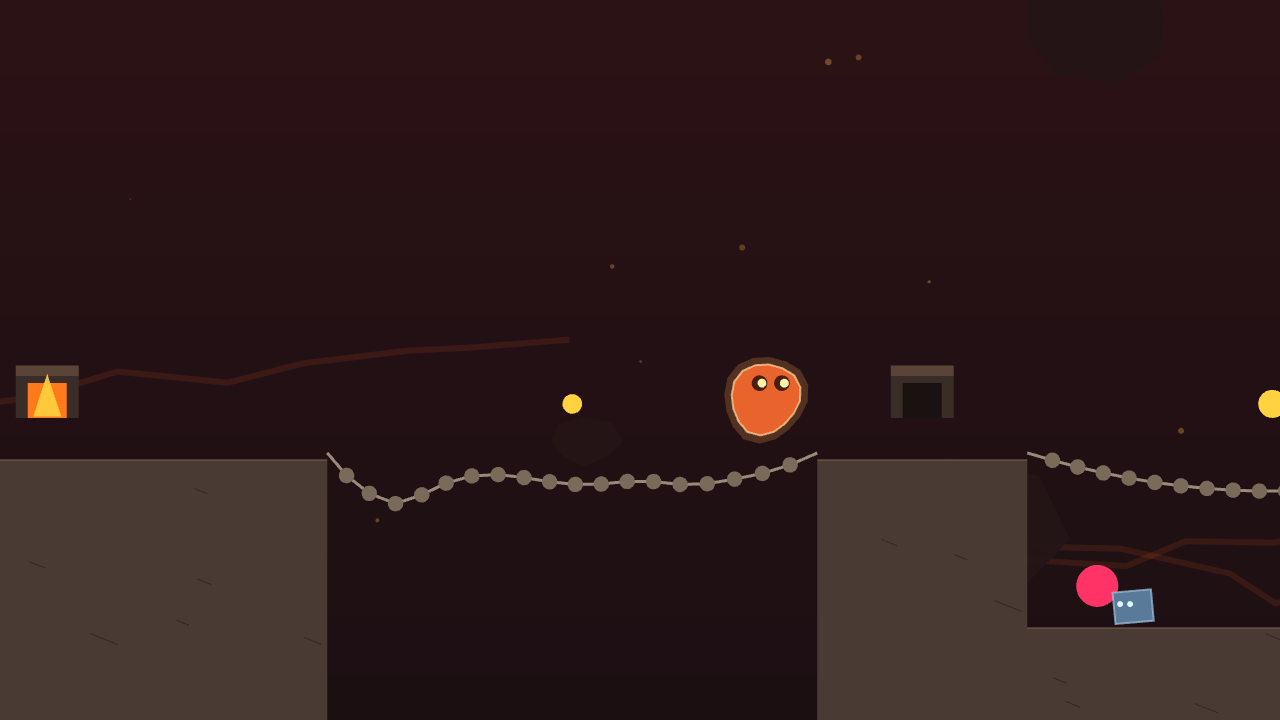
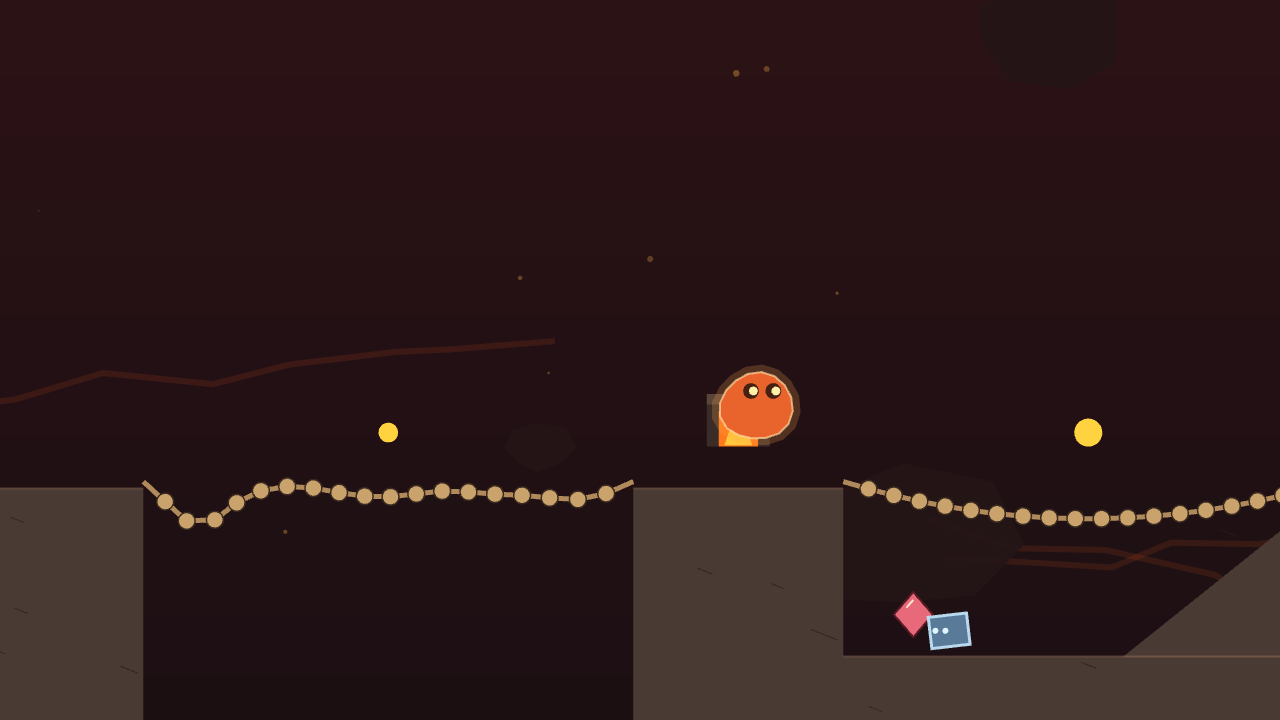
Проба: читаемость по ревью критика (сердца, выход, кнопки со значками, стик, цепи, враги, экран конца, меню)

diff --git a/src/main.ts b/src/main.ts
@@ -5,7 +5,7 @@ import { MIR } from './game/config/telo';
 import { Igra } from './game/igra';
 import { PUSTOE, Telo } from './game/telo';
 import { Prizrak, Zapis } from './game/zapis';
-import { Vvod } from './input/vvod';
+import { type Knopka, Vvod } from './input/vvod';
 import type { Uroven } from './level/format';
 import { porogOchkov, sleduyushchiy, UROVNI, urovenOtkryt, urovenPoId } from './level/spisok';
 import { type ZagruzhennyyUroven, zagruzitUroven } from './level/zagruzka';
@@ -116,7 +116,7 @@ function pokazatKonec(): void {
     const rekord = bylo === 0 || igra.takty <= bylo ? `  ${t(yazyk, 'rekord')}` : '';
     ekranTekst.textContent = `${t(yazyk, 'vremya')} ${vremya}${rekord}  ${t(yazyk, 'padenie')} ${igra.dlinneysheePadenie.toFixed(1)}`;
   } else {
-    ekranTekst.textContent = `${t(yazyk, 'vremya')} ${vremya}  ${t(yazyk, 'ochki')} ${igra.ochki}  ${t(yazyk, 'serdca')} ${igra.serdca}/${serdca.length}  ${t(yazyk, 'smerti')} ${igra.smerti}`;
+    ekranTekst.innerHTML = `${t(yazyk, 'vremya')} ${vremya} &nbsp;•&nbsp; ${t(yazyk, 'ochki')} ${igra.ochki}<br>${t(yazyk, 'serdca')} ${igra.serdca}/${serdca.length} &nbsp;•&nbsp; ${t(yazyk, 'smerti')} ${igra.smerti}`;
   }
   // реклама между уровнями: только здесь, симуляция стоит, звук глушится на время ролика
   zvuk.ustanovitGromkost(0);
@@ -160,7 +160,7 @@ function pokazatMenyu(): void {
       u.rezhim === 'zherlo' && pr?.luchsheeVremya
         ? ` ${Math.floor(pr.luchsheeVremya / 3600)}:${String(Math.floor((pr.luchsheeVremya / 60) % 60)).padStart(2, '0')}`
         : '';
-    el.innerHTML = `<span>${u.id} ${nazvanieUrovnya(yazyk, u.id, u.nazvanie)}${vremya}</span><span class="z">${otkryt ? '★'.repeat(z) + '☆'.repeat(3 - z) : `🔒 ${u.rezhim === 'zherlo' ? `${u.zvyozdDlyaOtkrytiya ?? 12}★` : ''}`}</span>`;
+    el.innerHTML = `<span>${u.id} ${nazvanieUrovnya(yazyk, u.id, u.nazvanie)}${vremya}</span><span class="z">${otkryt ? '★'.repeat(z) + '☆'.repeat(3 - z) : `🔒 ${u.rezhim === 'zherlo' ? `${t(yazyk, 'nuzhno')} ${u.zvyozdDlyaOtkrytiya ?? 12}★` : ''}`}</span>`;
     if (otkryt)
       el.addEventListener('click', () => {
         skrytMenyu();
@@ -269,19 +269,98 @@ let fpsT = last;
 let fps = 0;
 let taktMs = 0;
 
+// Цвета кнопок способностей по материалу (05-art): Вязкость янтарная, Расплав жёлто-горячий,
+// Корка серо-каменная, Выброс ярко-оранжевый
+const TSVET_KNOPKI: Record<Knopka, number> = {
+  vyazkost: 0xc98a3a,
+  rasplav: 0xffd23f,
+  korka: 0x8a8a8a,
+  vybros: 0xff6a1a,
+};
+
+// Значки кнопок примитивами: три капли (липнет), волна (течёт), шестиугольник (твердеет), стрелка вверх (прыжок)
+function znachokKnopki(k: Knopka, x: number, y: number, r: number, cvet: number): void {
+  switch (k) {
+    case 'vyazkost':
+      for (const [dx, dy] of [
+        [-0.7, 0.3],
+        [0, -0.5],
+        [0.7, 0.3],
+      ] as const) {
+        ui.circle(x + dx * r, y + dy * r, r * 0.32);
+        ui.fill({ color: cvet });
+      }
+      break;
+    case 'rasplav':
+      ui.moveTo(x - r, y);
+      for (let i = 1; i <= 8; i++)
+        ui.lineTo(x - r + (i / 8) * 2 * r, y + Math.sin(i * 1.57) * r * 0.4);
+      ui.stroke({ width: 3, color: cvet });
+      break;
+    case 'korka':
+      for (let i = 0; i < 6; i++) {
+        const a = (i / 6) * Math.PI * 2 + Math.PI / 6;
+        if (i === 0) ui.moveTo(x + Math.cos(a) * r, y + Math.sin(a) * r);
+        else ui.lineTo(x + Math.cos(a) * r, y + Math.sin(a) * r);
+      }
+      ui.closePath();
+      ui.stroke({ width: 3, color: cvet });
+      break;
+    case 'vybros':
+      ui.moveTo(x, y - r);
+      ui.lineTo(x + r * 0.8, y + r * 0.2);
+      ui.lineTo(x + r * 0.3, y + r * 0.2);
+      ui.lineTo(x + r * 0.3, y + r);
+      ui.lineTo(x - r * 0.3, y + r);
+      ui.lineTo(x - r * 0.3, y + r * 0.2);
+      ui.lineTo(x - r * 0.8, y + r * 0.2);
+      ui.closePath();
+      ui.fill({ color: cvet });
+      break;
+  }
+}
+
 function risovatUi(): void {
   ui.clear();
   if (chisto) return;
-  if (estKasanie || vvod.tachAktiven)
-    for (const b of vvod.geometriyaKnopok()) {
+  if (menyuPokazano || ekranPokazan) return; // под окном меню и конца уровня кнопок нет
+  if (estKasanie || vvod.tachAktiven) {
+    const geo = vvod.geometriyaKnopok();
+    // тёмная подложка под ромбом, чтобы кнопки читались как интерфейс, а не как часть скалы
+    const c = geo[0] as (typeof geo)[number];
+    ui.circle(c.x, c.y + c.r * 1.6, c.r * 3.1);
+    ui.fill({ color: 0x1a0f12, alpha: 0.45 });
+    for (const b of geo) {
       const aktivna = vvod.nam[b.k] as boolean;
+      const cvet = TSVET_KNOPKI[b.k];
       ui.circle(b.x, b.y, b.r);
-      ui.fill({ color: aktivna ? 0xffb347 : 0xffffff, alpha: aktivna ? 0.6 : 0.18 });
+      ui.fill({ color: cvet, alpha: aktivna ? 0.85 : 0.35 });
+      ui.circle(b.x, b.y, b.r);
+      ui.stroke({ width: 2, color: 0xfff1d6, alpha: aktivna ? 0.9 : 0.35 });
+      znachokKnopki(b.k, b.x, b.y, b.r * 0.45, aktivna ? 0x2a1c17 : 0xfff1d6);
     }
+  }
   const s = vvod.stik;
   if (s.aktiven) {
     ui.circle(s.x0, s.y0, 48);
+    ui.fill({ color: 0xfff1d6, alpha: 0.1 });
+    ui.circle(s.x0, s.y0, 48);
     ui.stroke({ width: 2, color: 0xffffff, alpha: 0.4 });
+    // стрелки по четырём сторонам: здесь тянут палец
+    for (const [dx, dy] of [
+      [1, 0],
+      [-1, 0],
+      [0, 1],
+      [0, -1],
+    ] as const) {
+      const ax = s.x0 + dx * 36,
+        ay = s.y0 + dy * 36;
+      ui.moveTo(ax + dx * 6, ay + dy * 6);
+      ui.lineTo(ax - dy * 5 - dx * 2, ay + dx * 5 - dy * 2);
+      ui.lineTo(ax + dy * 5 - dx * 2, ay - dx * 5 - dy * 2);
+      ui.closePath();
+      ui.fill({ color: 0xffffff, alpha: 0.5 });
+    }
   }
   if (igra) {
     const w = window.innerWidth;

diff --git a/src/render/stsena.ts b/src/render/stsena.ts
@@ -147,15 +147,16 @@ export class Stsena {
                 b = mir.sB[sv] as number;
               g.moveTo(this.ekX(mir.x[a] as number), this.ekY(mir.y[a] as number));
               g.lineTo(this.ekX(mir.x[b] as number), this.ekY(mir.y[b] as number));
-              g.stroke({ width: 3, color: 0x9a8a7a });
+              g.stroke({ width: 5, color: 0xb08a5a });
             }
             for (const q of s.zvenya) {
               g.circle(
                 this.ekX(mir.x[q] as number),
                 this.ekY(mir.y[q] as number),
-                0.11 * this.masshtab,
+                0.12 * this.masshtab,
               );
-              g.fill({ color: 0x7a6a5a });
+              g.fill({ color: 0xc9a36b });
+              g.stroke({ width: 1.5, color: 0x3a2a20 });
             }
             break;
           }
@@ -202,20 +203,45 @@ export class Stsena {
             }
             break;
           }
-          case 'vyhod':
+          case 'vyhod': {
+            // выход: тёплое пульсирующее кольцо со свечением, чтобы цель уровня читалась издалека
+            const puls = 0.5 + 0.5 * Math.sin(performance.now() / 400);
+            g.circle(x, y, (0.7 + 0.1 * puls) * this.masshtab);
+            g.fill({ color: 0xfff1a8, alpha: 0.12 + 0.1 * puls });
             g.circle(x, y, 0.5 * this.masshtab);
-            g.stroke({ width: 3, color: 0xfff1a8 });
+            g.stroke({ width: 4, color: 0xfff1a8, alpha: 0.9 });
+            g.circle(x, y, 0.38 * this.masshtab);
+            g.stroke({ width: 2, color: 0xffd23f, alpha: 0.5 + 0.5 * puls });
             break;
+          }
           case 'zharkamen':
           case 'zharkamenSredniy':
           case 'serdce':
           case 'ugolek':
             if (!s.sobrana) {
-              const r = s.tip === 'serdce' ? 0.3 : s.tip === 'zharkamenSredniy' ? 0.2 : 0.14;
-              g.circle(x, y, r * this.masshtab);
-              g.fill({
-                color: s.tip === 'ugolek' ? 0xff4d1a : s.tip === 'serdce' ? 0xff3366 : 0xffd23f,
-              });
+              if (s.tip === 'serdce') {
+                // сердце: тёплый самоцвет-ромб с бликом, тусклее героя, силуэтом отличен от угольков
+                const k = 0.28 * this.masshtab;
+                g.moveTo(x, y - k * 1.15);
+                g.lineTo(x + k, y);
+                g.lineTo(x, y + k * 1.15);
+                g.lineTo(x - k, y);
+                g.closePath();
+                g.fill({ color: 0xe86a7a });
+                g.moveTo(x, y - k * 1.15);
+                g.lineTo(x + k, y);
+                g.lineTo(x, y + k * 1.15);
+                g.lineTo(x - k, y);
+                g.closePath();
+                g.stroke({ width: 2, color: 0x5a1a24 });
+                g.moveTo(x - k * 0.35, y - k * 0.35);
+                g.lineTo(x, y - k * 0.75);
+                g.stroke({ width: 2, color: 0xfff1d6, alpha: 0.9 });
+              } else {
+                const r = s.tip === 'zharkamenSredniy' ? 0.2 : 0.14;
+                g.circle(x, y, r * this.masshtab);
+                g.fill({ color: s.tip === 'ugolek' ? 0xff4d1a : 0xffd23f });
+              }
             }
             break;
           case 'plita':
@@ -261,7 +287,7 @@ export class Stsena {
       }
       g.closePath();
       g.fill({ color: v.tip === 'iskropryg' ? 0x5a7a9a : 0x4a5a6a });
-      g.stroke({ width: 2, color: 0x9fc4e0, alpha: 0.7 });
+      g.stroke({ width: 3, color: 0xbfe0f4, alpha: 0.95 });
       v.schitatCentr();
       const ex = this.ekX(v.cx) + v.napravlenie * this.masshtab * 0.12;
       const ey = this.ekY(v.cy) - this.masshtab * 0.05;

diff --git a/src/meta/lokalizaciya.ts b/src/meta/lokalizaciya.ts
@@ -12,6 +12,7 @@ const STROKI = {
     ochki: 'очки',
     serdca: 'сердца',
     smerti: 'смерти',
+    nuzhno: 'нужно',
     rekord: 'новый рекорд',
     padenie: 'самое длинное падение',
     vysota: 'высота',
@@ -39,6 +40,7 @@ const STROKI = {
     ochki: 'score',
     serdca: 'hearts',
     smerti: 'deaths',
+    nuzhno: 'need',
     rekord: 'new record',
     padenie: 'longest fall',
     vysota: 'height',
